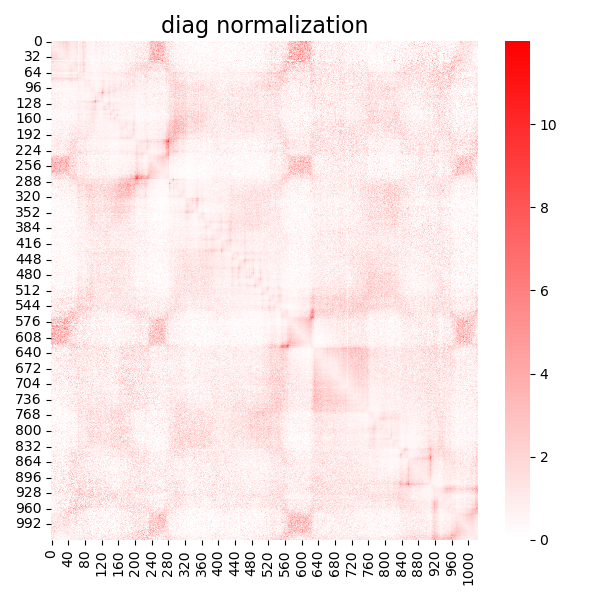
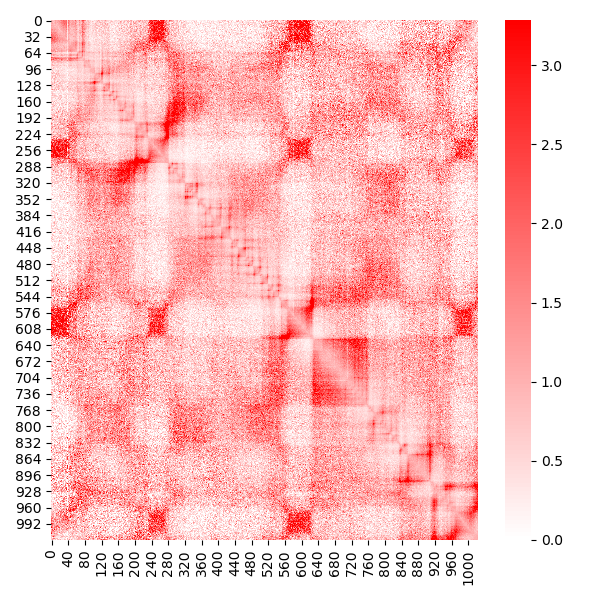
update

diff --git a/plotting_functions.py b/plotting_functions.py
@@ -249,7 +249,9 @@ def plotContactMap(y, ofile = None, title = None, vmin = 0, vmax = 1, size_in = 
     if vmax == 'mean':
         vmax = np.mean(y)
     elif vmax == 'max':
-        vmax = np.max(y)
+        vmax = np.percentile(y, 99)
+        # uses 99th percentile instead of absolute max
+        # enter numerical value mannually to override
     ax = sns.heatmap(y, linewidth = 0, vmin = vmin, vmax = vmax, cmap = cmap)
     if x_ticks is None:
         pass

diff --git a/data_summary_plots.py b/data_summary_plots.py
@@ -123,7 +123,8 @@ def plotFrequenciesForSample(freq_arr, dataFolder, preprocessing, k, sampleid, s
         xmax: x axis limit
     """
     freq_pd = pd.DataFrame(freq_arr, columns = ['freq', 'sampleID', 'type', 'psi']) # cols = freq, sampleid, interaction_type
-    converter = InteractionConverter(k)
+    if k is not None:
+        converter = InteractionConverter(k)
 
     if split is None:
         fig = plt.figure(figsize=(8, 4))
